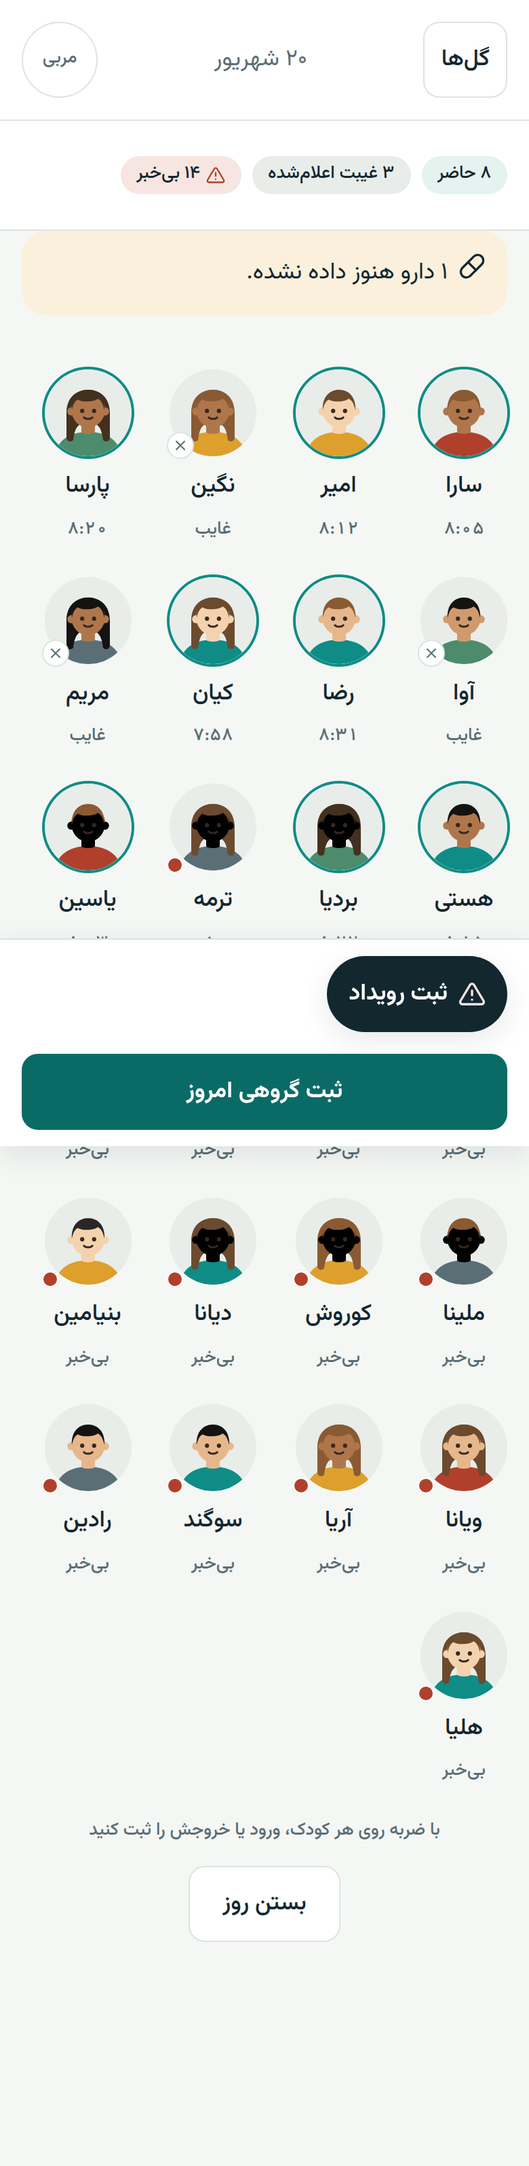
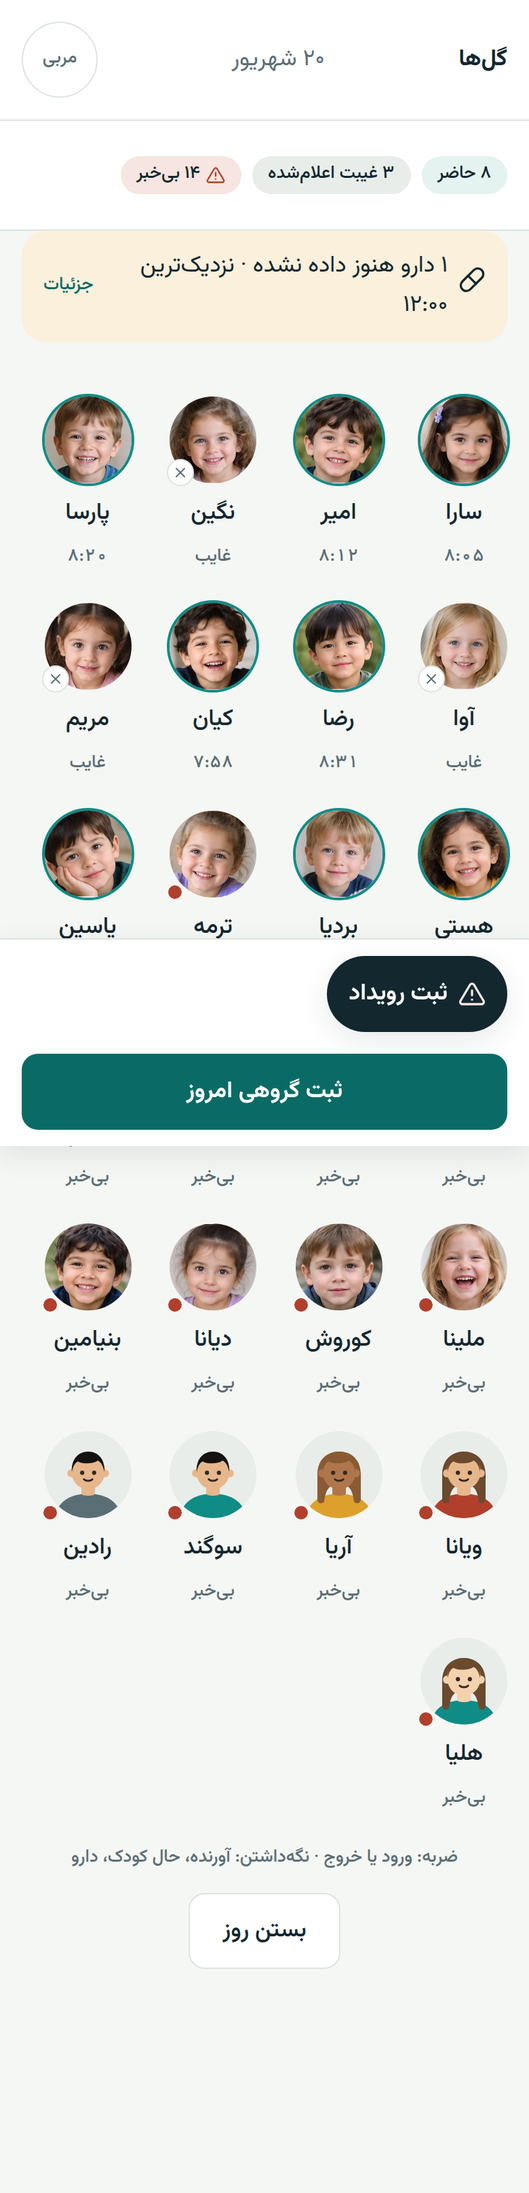
بازبینی طراحی: عکسهای تازه با چهره کودکان
شش عکس دوباره گرفته شد تا چهرههای واقعی را نشان دهد، و دو عکس تازه
برای جزئیات دارو و ثبت اصلاحیه اضافه شد.

Claude-Session: https://claude.ai/code/session_01NLmMvgXRwY5q1rhV9Cs8sg

diff --git a/kindergarten/design-review/index.html b/kindergarten/design-review/index.html
@@ -262,16 +262,16 @@ dialog::backdrop { background: rgba(10, 18, 21, .86); }
       <section class="group" id="g-1">
         <header class="group-head">
           <h2>مربی — امروز</h2>
-          <span class="count">۷</span>
+          <span class="count">۸</span>
           <p>صفحهای که مربی بیشترین وقت روزش را در آن میگذراند.</p>
         </header>
         <div class="grid">
         <figure class="plate">
-          <button class="frame" type="button" data-i="3" aria-label="بزرگنمایی: امروز: نوار خلاصه، یادآور دارو، و شبکه کودکان">
-            <img src="shots/04-today-start.png" alt="امروز: نوار خلاصه، یادآور دارو، و شبکه کودکان" loading="lazy" width="390" />
+          <button class="frame" type="button" data-i="3" aria-label="بزرگنمایی: امروز: نوار خلاصه، یادآور دارو با ساعت، و شبکه کودکان">
+            <img src="shots/04-today-start.png" alt="امروز: نوار خلاصه، یادآور دارو با ساعت، و شبکه کودکان" loading="lazy" width="390" />
           </button>
           <figcaption>
-            <p class="cap">امروز: نوار خلاصه، یادآور دارو، و شبکه کودکان</p>
+            <p class="cap">امروز: نوار خلاصه، یادآور دارو با ساعت، و شبکه کودکان</p>
             <p class="meta"><span class="file">04-today-start.png</span><span class="spec">بخش ۵.۱</span></p>
           </figcaption>
         </figure>
@@ -329,6 +329,15 @@ dialog::backdrop { background: rgba(10, 18, 21, .86); }
             <p class="meta"><span class="file">45-teacher-plans.png</span><span class="spec">بخش ۵.۸</span></p>
           </figcaption>
         </figure>
+        <figure class="plate">
+          <button class="frame" type="button" data-i="57" aria-label="بزرگنمایی: یادآور دارو باز شده: کودک، دارو، ساعت مصرف، و «داده شد»">
+            <img src="shots/59-medication-detail.png" alt="یادآور دارو باز شده: کودک، دارو، ساعت مصرف، و «داده شد»" loading="lazy" width="390" />
+          </button>
+          <figcaption>
+            <p class="cap">یادآور دارو باز شده: کودک، دارو، ساعت مصرف، و «داده شد»</p>
+            <p class="meta"><span class="file">59-medication-detail.png</span><span class="spec">بخش ۵.۳</span></p>
+          </figcaption>
+        </figure>
         </div>
       </section>
       <section class="group" id="g-2">
@@ -339,11 +348,11 @@ dialog::backdrop { background: rgba(10, 18, 21, .86); }
         </header>
         <div class="grid">
         <figure class="plate">
-          <button class="frame" type="button" data-i="5" aria-label="بزرگنمایی: شیت ورود: چه کسی آورد، وضعیت، دارو. همه از پیش انتخابشده تا تأیید یک ضربه بماند">
-            <img src="shots/06-arrival-normal.png" alt="شیت ورود: چه کسی آورد، وضعیت، دارو. همه از پیش انتخابشده تا تأیید یک ضربه بماند" loading="lazy" width="390" />
+          <button class="frame" type="button" data-i="5" aria-label="بزرگنمایی: شیت ورود از نگهداشتن انگشت: آورنده، وضعیت، دارو با ساعت مصرف">
+            <img src="shots/06-arrival-normal.png" alt="شیت ورود از نگهداشتن انگشت: آورنده، وضعیت، دارو با ساعت مصرف" loading="lazy" width="390" />
           </button>
           <figcaption>
-            <p class="cap">شیت ورود: چه کسی آورد، وضعیت، دارو. همه از پیش انتخابشده تا تأیید یک ضربه بماند</p>
+            <p class="cap">شیت ورود از نگهداشتن انگشت: آورنده، وضعیت، دارو با ساعت مصرف</p>
             <p class="meta"><span class="file">06-arrival-normal.png</span></p>
           </figcaption>
         </figure>
@@ -586,7 +595,7 @@ dialog::backdrop { background: rgba(10, 18, 21, .86); }
       <section class="group" id="g-7">
         <header class="group-head">
           <h2>مربی — بستن روز</h2>
-          <span class="count">۲</span>
+          <span class="count">۳</span>
           <p>گزارش تا وقتی فرستاده نشده به خانواده نمیرسد. پس از ارسال قفل است.</p>
         </header>
         <div class="grid">
@@ -606,6 +615,15 @@ dialog::backdrop { background: rgba(10, 18, 21, .86); }
           <figcaption>
             <p class="cap">پس از ارسال: گزارش قفل است و از این پس فقط اصلاحیه ثبت میشود</p>
             <p class="meta"><span class="file">34-closeday-sent.png</span><span class="tall">تمام صفحه</span></p>
+          </figcaption>
+        </figure>
+        <figure class="plate plate--tall">
+          <button class="frame" type="button" data-i="58" aria-label="بزرگنمایی: پس از قفل شدن گزارش، تنها راه تغییر: اصلاحیه">
+            <img src="shots/60-amendment.png" alt="پس از قفل شدن گزارش، تنها راه تغییر: اصلاحیه" loading="lazy" width="390" />
+          </button>
+          <figcaption>
+            <p class="cap">پس از قفل شدن گزارش، تنها راه تغییر: اصلاحیه</p>
+            <p class="meta"><span class="file">60-amendment.png</span><span class="spec">بخش ۵.۹</span><span class="tall">تمام صفحه</span></p>
           </figcaption>
         </figure>
         </div>
@@ -992,7 +1010,7 @@ dialog::backdrop { background: rgba(10, 18, 21, .86); }
 </dialog>
 
 <script>
-  const SHOTS = [{"file":"01-signin-phone.png","caption":"ورود: شماره موبایل"},{"file":"02-signin-code.png","caption":"ورود: کد پنجرقمی پیامکی"},{"file":"03-account-picker.png","caption":"انتخاب حساب: یک شماره، چند نقش. نقشها هرگز با هم ترکیب نمیشوند"},{"file":"04-today-start.png","caption":"امروز: نوار خلاصه، یادآور دارو، و شبکه کودکان"},{"file":"05-today-start-full.png","caption":"امروز، تمام صفحه. یک کنش اصلی در پایین قاب"},{"file":"06-arrival-normal.png","caption":"شیت ورود: چه کسی آورد، وضعیت، دارو. همه از پیش انتخابشده تا تأیید یک ضربه بماند"},{"file":"07-arrival-exception.png","caption":"شیت ورود، حالت استثنا: با وضعیت غیرعادی دکمه عکس برجسته میشود و دارو ساعت میگیرد"},{"file":"08-today-mixed.png","caption":"امروز با حالتهای مختلف: حاضر، نیامده، غایبِ باخبر"},{"file":"09-today-outstanding.png","caption":"تراشه «بیخبر» فهرست نامها را باز میکند. بنر قرمز جدا حذف شد"},{"file":"10-checkout-allowed.png","caption":"شیت خروج: فقط فهرست مجاز تحویلگیرندگان"},{"file":"11-checkout-badcode.png","caption":"کد تحویل نامعتبر: ثبت باز نمیشود و دلیلش نوشته میشود"},{"file":"12-checkout-ready.png","caption":"با انتخاب فرد مجاز، دکمه ساعت تحویل را نشان میدهد"},{"file":"13-today-left.png","caption":"کودک به حالت «رفته» رفت. نوار پایین: کنش اصلی + ثبت رویداد"},{"file":"14-incident-who.png","caption":"ثبت رویداد: اول کودک و نوع رویداد"},{"file":"15-incident-severity.png","caption":"شدت رویداد: پیامد هر شدت همانجا نوشته شده"},{"file":"16-incident-minor-kinds.png","caption":"دستههای رویداد جزئی بسته و از پیش تعریفشدهاند"},{"file":"17-incident-detail.png","caption":"جزئیات: مکان، توضیح، و پرچم ناحیه سر"},{"file":"18-incident-escalation.png","caption":"هشدار ارتقای خودکار شدت، پیش از ثبت"},{"file":"19-incident-to-manager.png","caption":"رویداد ارتقایافته اول برای مدیر میرود، نه خانواده"},{"file":"20-incident-to-family.png","caption":"رویداد جزئی مستقیم به خانواده میرود"},{"file":"21-account-switch.png","caption":"جابهجایی حساب بدون خروج و کد دوباره"},{"file":"22-bulk-top.png","caption":"ثبت گروهی: یک بار برای کل کلاس — مهمترین صفحه سامانه، بخش ۵.۵"},{"file":"23-bulk-full.png","caption":"ثبت گروهی، تمام صفحه"},{"file":"24-bulk-ready.png","caption":"با پر شدن نوار، دکمه اعمال باز میشود"},{"file":"25-bulk-applied.png","caption":"پس از اعمال: همه گرفتند، و استثناها جدا ثبت میشوند"},{"file":"26-child-exception.png","caption":"شیت استثنای کودک: فقط همان چیزی که با کلاس فرق دارد"},{"file":"27-banned-word.png","caption":"هشدار واژه برچسبزننده — پیوست ب. هشدار است، نه مانع"},{"file":"28-note-observational.png","caption":"همان متن، مشاهدهای نوشته شده: هشدار میرود"},{"file":"29-photo-untagged.png","caption":"عکس بدون تگ ثبت نمیشود و دلیلش نوشته شده"},{"file":"30-photo-tagged.png","caption":"با تگ خوردن، ثبت باز میشود. رضایت هر خانواده جدا بررسی میشود"},{"file":"31-photo-strip.png","caption":"نوار عکسهای امروز"},{"file":"32-closeday-before.png","caption":"بستن روز: شمار کامل و ناقص، پیش از ارسال"},{"file":"33-parent-pending.png","caption":"والد پیش از ارسال: گزارش تا وقتی مربی نفرستاده به خانواده نمیرسد"},{"file":"34-closeday-sent.png","caption":"پس از ارسال: گزارش قفل است و از این پس فقط اصلاحیه ثبت میشود"},{"file":"35-parent-top.png","caption":"والد، امروز: عکس اول صفحه است. تنها چیزی که والد واقعاً برایش میآید"},{"file":"36-parent-full.png","caption":"والد، تمام صفحه: عکس، ورود و خروج، ناهار و خواب و خلق، یادداشت، رویداد، از خانه. بدون درصد و نمودار و مقایسه"},{"file":"37-parent-second-child.png","caption":"خانواده با بیش از یک کودک: جابهجایی بالای صفحه"},{"file":"39-narrow-320.png","caption":"باریکترین حالت پشتیبانیشده، ۳۲۰ پیکسل: بدون لغزش افقی"},{"file":"40-tablet-820.png","caption":"تبلت ۸۲۰ پیکسل"},{"file":"41-needs-editor.png","caption":"درخواست از خانه: مربی برای کل کلاس مینویسد و در گزارش امشب میرود"},{"file":"42-parent-tomorrow.png","caption":"والد: درخواستهای از خانه و کارت «فردا» با دو تصمیم جدا"},{"file":"43-parent-picker.png","caption":"فهرست مجاز همان کودک. کسی بیرون از فهرست، راه دوم است"},{"file":"44-parent-code.png","caption":"فرد بیرون از فهرست: کد یکبارمصرف چهاررقمی، فقط برای فردا"},{"file":"45-teacher-plans.png","caption":"اعلام خانواده برای امروز، بالای شبکه. مربی میبیند، نمیسازد"},{"file":"46-manager-dashboard.png","caption":"داشبورد صبح مدیر: صف رویداد بالاتر از همهچیز"},{"file":"47-notice-write.png","caption":"اطلاعرسانی: متن خودکار از قالب، با امکان ویرایش"},{"file":"48-notice-confirm.png","caption":"تأیید دو مرحلهای: گیرنده، سهمیه پیامک، و نام خانوادههای بدون شماره"},{"file":"49-notice-sent.png","caption":"گزارش ارسال"},{"file":"50-finance-empty.png","caption":"مالی پیش از صدور: شهریهها و حالت خالی — ماژول M5"},{"file":"51-finance-issued.png","caption":"پس از صدور گروهی: وصولی در برابر مانده، و فهرست تسویهنشدهها"},{"file":"52-payment-sheet.png","caption":"ثبت پرداخت دستی و رسید. درگاه آنلاین فاز ۳ است"},{"file":"53-children-list.png","caption":"فهرست کودکان با جستوجوی نام"},{"file":"54-child-profile.png","caption":"پرونده کودک: آلرژی اول از همه، چون بخش ۷.۱ آن را موضوع ایمنی نامیده"},{"file":"55-parent-more.png","caption":"«بیشتر» خانواده: اعلام غیبت بالای فهرست"},{"file":"56-parent-messages.png","caption":"پیام به مربی، با ساعت کاری نوشتهشده"},{"file":"57-parent-absence.png","caption":"اعلام غیبت برای امروز یا فردا. نوشتن علت اختیاری است"},{"file":"58-parent-finance.png","caption":"مالی خانواده: فقط سرپرست پرداختکننده"}];
+  const SHOTS = [{"file":"01-signin-phone.png","caption":"ورود: شماره موبایل"},{"file":"02-signin-code.png","caption":"ورود: کد پنجرقمی پیامکی"},{"file":"03-account-picker.png","caption":"انتخاب حساب: یک شماره، چند نقش. نقشها هرگز با هم ترکیب نمیشوند"},{"file":"04-today-start.png","caption":"امروز: نوار خلاصه، یادآور دارو با ساعت، و شبکه کودکان"},{"file":"05-today-start-full.png","caption":"امروز، تمام صفحه. یک کنش اصلی در پایین قاب"},{"file":"06-arrival-normal.png","caption":"شیت ورود از نگهداشتن انگشت: آورنده، وضعیت، دارو با ساعت مصرف"},{"file":"07-arrival-exception.png","caption":"شیت ورود، حالت استثنا: با وضعیت غیرعادی دکمه عکس برجسته میشود و دارو ساعت میگیرد"},{"file":"08-today-mixed.png","caption":"امروز با حالتهای مختلف: حاضر، نیامده، غایبِ باخبر"},{"file":"09-today-outstanding.png","caption":"تراشه «بیخبر» فهرست نامها را باز میکند. بنر قرمز جدا حذف شد"},{"file":"10-checkout-allowed.png","caption":"شیت خروج: فقط فهرست مجاز تحویلگیرندگان"},{"file":"11-checkout-badcode.png","caption":"کد تحویل نامعتبر: ثبت باز نمیشود و دلیلش نوشته میشود"},{"file":"12-checkout-ready.png","caption":"با انتخاب فرد مجاز، دکمه ساعت تحویل را نشان میدهد"},{"file":"13-today-left.png","caption":"کودک به حالت «رفته» رفت. نوار پایین: کنش اصلی + ثبت رویداد"},{"file":"14-incident-who.png","caption":"ثبت رویداد: اول کودک و نوع رویداد"},{"file":"15-incident-severity.png","caption":"شدت رویداد: پیامد هر شدت همانجا نوشته شده"},{"file":"16-incident-minor-kinds.png","caption":"دستههای رویداد جزئی بسته و از پیش تعریفشدهاند"},{"file":"17-incident-detail.png","caption":"جزئیات: مکان، توضیح، و پرچم ناحیه سر"},{"file":"18-incident-escalation.png","caption":"هشدار ارتقای خودکار شدت، پیش از ثبت"},{"file":"19-incident-to-manager.png","caption":"رویداد ارتقایافته اول برای مدیر میرود، نه خانواده"},{"file":"20-incident-to-family.png","caption":"رویداد جزئی مستقیم به خانواده میرود"},{"file":"21-account-switch.png","caption":"جابهجایی حساب بدون خروج و کد دوباره"},{"file":"22-bulk-top.png","caption":"ثبت گروهی: یک بار برای کل کلاس — مهمترین صفحه سامانه، بخش ۵.۵"},{"file":"23-bulk-full.png","caption":"ثبت گروهی، تمام صفحه"},{"file":"24-bulk-ready.png","caption":"با پر شدن نوار، دکمه اعمال باز میشود"},{"file":"25-bulk-applied.png","caption":"پس از اعمال: همه گرفتند، و استثناها جدا ثبت میشوند"},{"file":"26-child-exception.png","caption":"شیت استثنای کودک: فقط همان چیزی که با کلاس فرق دارد"},{"file":"27-banned-word.png","caption":"هشدار واژه برچسبزننده — پیوست ب. هشدار است، نه مانع"},{"file":"28-note-observational.png","caption":"همان متن، مشاهدهای نوشته شده: هشدار میرود"},{"file":"29-photo-untagged.png","caption":"عکس بدون تگ ثبت نمیشود و دلیلش نوشته شده"},{"file":"30-photo-tagged.png","caption":"با تگ خوردن، ثبت باز میشود. رضایت هر خانواده جدا بررسی میشود"},{"file":"31-photo-strip.png","caption":"نوار عکسهای امروز"},{"file":"32-closeday-before.png","caption":"بستن روز: شمار کامل و ناقص، پیش از ارسال"},{"file":"33-parent-pending.png","caption":"والد پیش از ارسال: گزارش تا وقتی مربی نفرستاده به خانواده نمیرسد"},{"file":"34-closeday-sent.png","caption":"پس از ارسال: گزارش قفل است و از این پس فقط اصلاحیه ثبت میشود"},{"file":"35-parent-top.png","caption":"والد، امروز: عکس اول صفحه است. تنها چیزی که والد واقعاً برایش میآید"},{"file":"36-parent-full.png","caption":"والد، تمام صفحه: عکس، ورود و خروج، ناهار و خواب و خلق، یادداشت، رویداد، از خانه. بدون درصد و نمودار و مقایسه"},{"file":"37-parent-second-child.png","caption":"خانواده با بیش از یک کودک: جابهجایی بالای صفحه"},{"file":"39-narrow-320.png","caption":"باریکترین حالت پشتیبانیشده، ۳۲۰ پیکسل: بدون لغزش افقی"},{"file":"40-tablet-820.png","caption":"تبلت ۸۲۰ پیکسل"},{"file":"41-needs-editor.png","caption":"درخواست از خانه: مربی برای کل کلاس مینویسد و در گزارش امشب میرود"},{"file":"42-parent-tomorrow.png","caption":"والد: درخواستهای از خانه و کارت «فردا» با دو تصمیم جدا"},{"file":"43-parent-picker.png","caption":"فهرست مجاز همان کودک. کسی بیرون از فهرست، راه دوم است"},{"file":"44-parent-code.png","caption":"فرد بیرون از فهرست: کد یکبارمصرف چهاررقمی، فقط برای فردا"},{"file":"45-teacher-plans.png","caption":"اعلام خانواده برای امروز، بالای شبکه. مربی میبیند، نمیسازد"},{"file":"46-manager-dashboard.png","caption":"داشبورد صبح مدیر: صف رویداد بالاتر از همهچیز"},{"file":"47-notice-write.png","caption":"اطلاعرسانی: متن خودکار از قالب، با امکان ویرایش"},{"file":"48-notice-confirm.png","caption":"تأیید دو مرحلهای: گیرنده، سهمیه پیامک، و نام خانوادههای بدون شماره"},{"file":"49-notice-sent.png","caption":"گزارش ارسال"},{"file":"50-finance-empty.png","caption":"مالی پیش از صدور: شهریهها و حالت خالی — ماژول M5"},{"file":"51-finance-issued.png","caption":"پس از صدور گروهی: وصولی در برابر مانده، و فهرست تسویهنشدهها"},{"file":"52-payment-sheet.png","caption":"ثبت پرداخت دستی و رسید. درگاه آنلاین فاز ۳ است"},{"file":"53-children-list.png","caption":"فهرست کودکان با جستوجوی نام"},{"file":"54-child-profile.png","caption":"پرونده کودک: آلرژی اول از همه، چون بخش ۷.۱ آن را موضوع ایمنی نامیده"},{"file":"55-parent-more.png","caption":"«بیشتر» خانواده: اعلام غیبت بالای فهرست"},{"file":"56-parent-messages.png","caption":"پیام به مربی، با ساعت کاری نوشتهشده"},{"file":"57-parent-absence.png","caption":"اعلام غیبت برای امروز یا فردا. نوشتن علت اختیاری است"},{"file":"58-parent-finance.png","caption":"مالی خانواده: فقط سرپرست پرداختکننده"},{"file":"59-medication-detail.png","caption":"یادآور دارو باز شده: کودک، دارو، ساعت مصرف، و «داده شد»"},{"file":"60-amendment.png","caption":"پس از قفل شدن گزارش، تنها راه تغییر: اصلاحیه"}];
   const dlg = document.getElementById('lb');
   const img = document.getElementById('lbimg');
   const cap = document.getElementById('lbcap');
